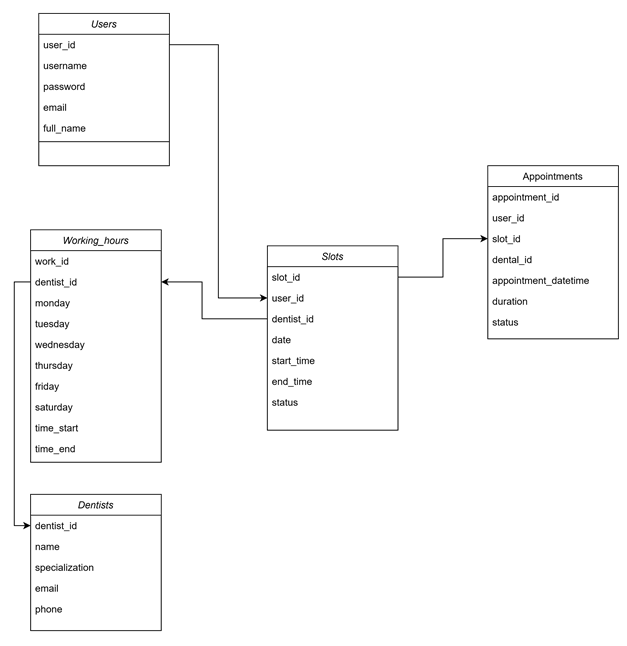
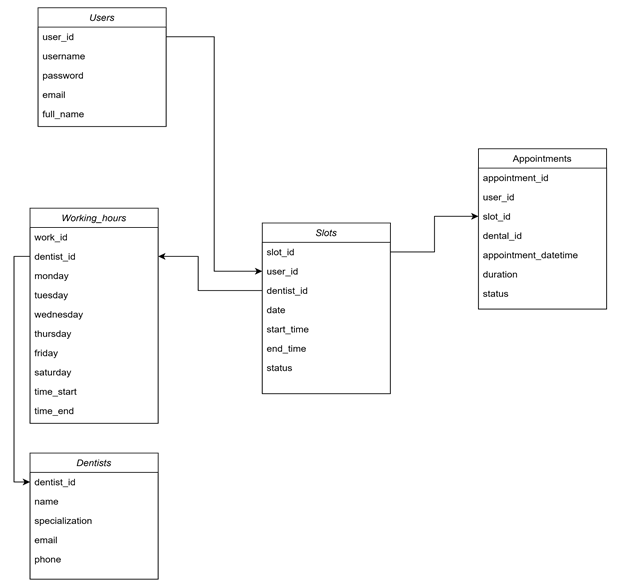
updating

Changed region(s): [[0.0, 0.0, 0.3642, 1.0], [0.6981, 0.2453, 1.0, 0.552], [0.3339, 0.368, 0.6374, 0.6746]]

diff --git a/README.md b/README.md
@@ -147,6 +147,12 @@ Our system architecture is divided into several key components:
 
 The database schema outlines the structure of our database, including the relationships between tables and the types of data stored.
 
+**Entity Relationship**
+
+> ![Entity Relationship](https://raw.githubusercontent.com/michaeljoe-webdev/dental-online-system/main/wiki/Entity_Relationship.png)
+
+The database schema outlines the structure of our database, including the relationships between tables and the types of data stored.
+
 **Interface Flow**
 
 > ![Interface Flow](https://raw.githubusercontent.com/michaeljoe-webdev/dental-online-system/main/wiki/Interface_Flow.png)
